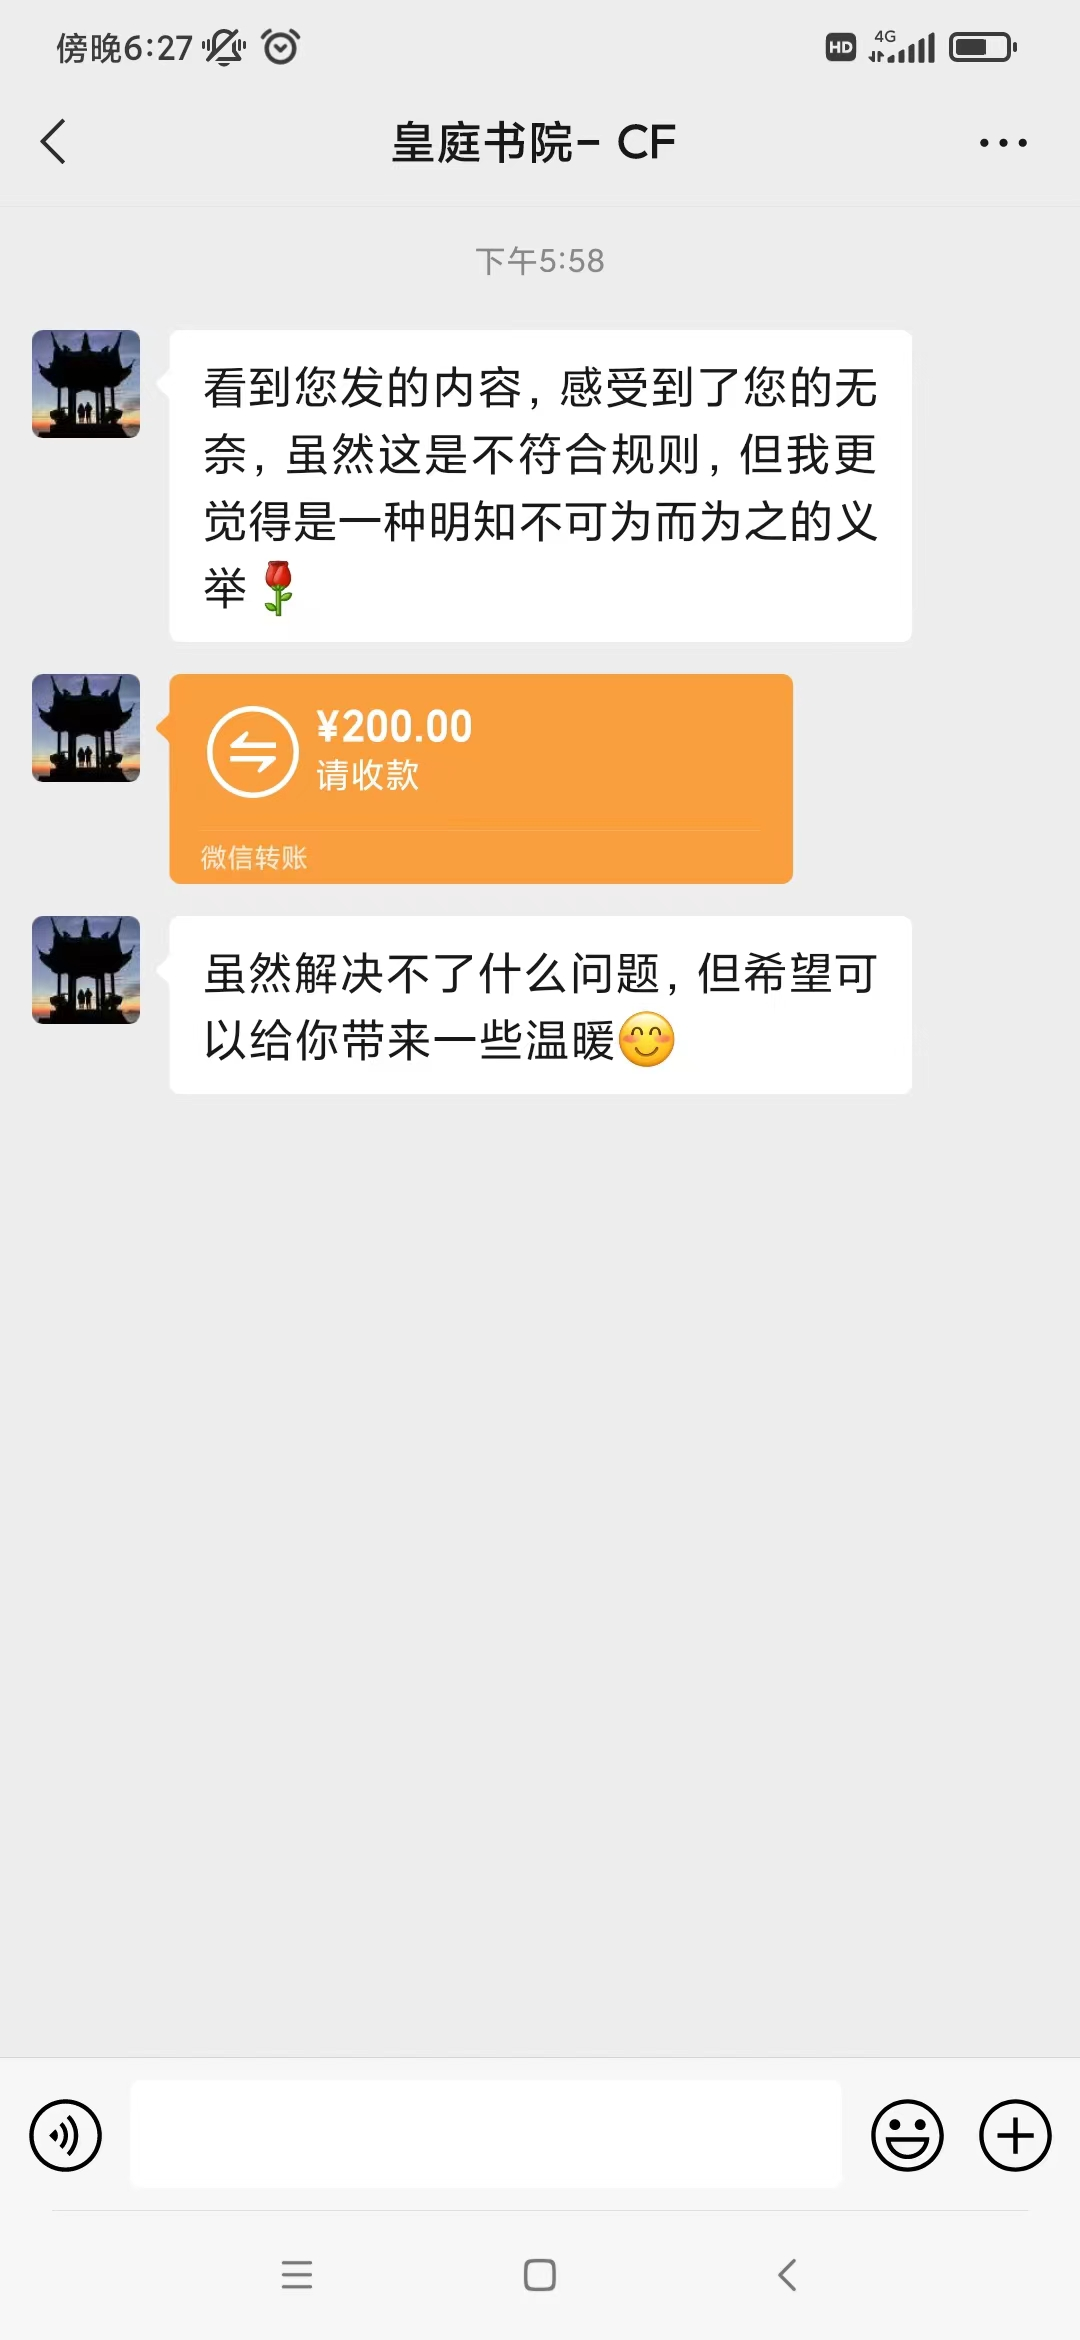
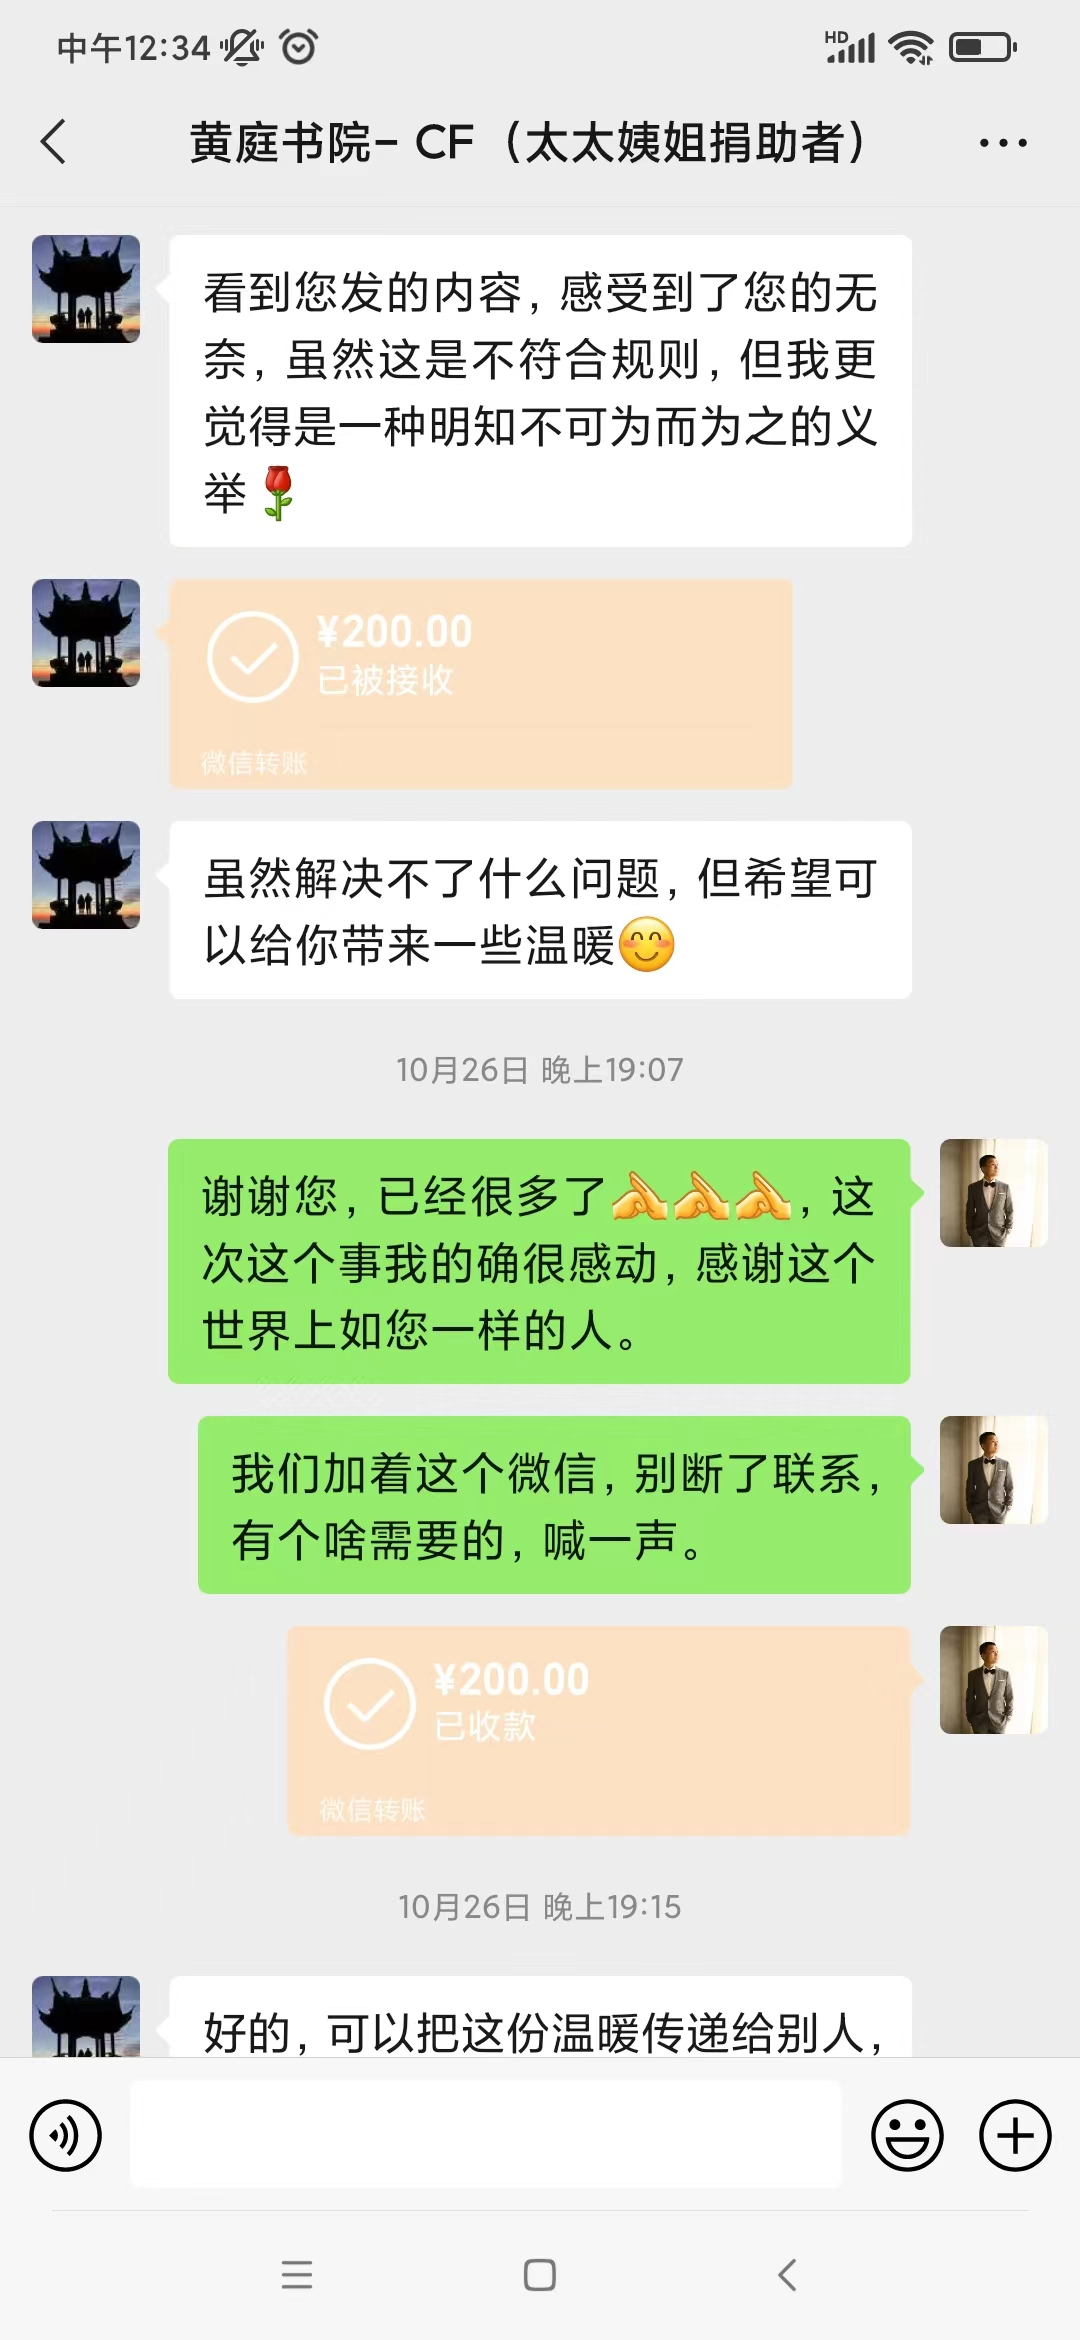
there is love in the world

diff --git a/content/posts/2023/10/there-is-love-in-the-world.md b/content/posts/2023/10/there-is-love-in-the-world.md
@@ -1,5 +1,5 @@
 ---
-title: 世間有大愛
+title: 人間有大愛
 author: olzhy
 type: post
 date: 2023-10-28T08:00:00+08:00
@@ -17,13 +17,13 @@ description: 為太太三姨家姨姐孩子籌款有感。
 
 我們兩人稍作商量後，便盡家裏所能拿出了五千元整，當即轉到太太姨姐的微信。
 
-但是，這麽大的事，光親戚朋友的支持是不夠的，重症病房一天的開銷就得成千上萬，我們的這點錢只是杯水車薪。我倆便盡量的轉發那條籌款的動態，獲取更多社會人士的幫助。
+但是，這麽大的事，光親戚朋友的支持是不夠的，重症病房一天的開銷就得成千上萬，我們的這點錢只是杯水車薪。我倆便盡量的轉發那條籌款的動態，嘗試獲取更多社會人士的幫助。
 
 讓人溫暖的是，轉發后的幾個小時裏，不管是微信群，還是朋友圈，許多天南海北、素昧平生的人都在不停的幫助與接力，看著那十元、二十元的愛心捐款慢慢地匯聚成了幾千元、幾萬元。我和太太真切地感受到了這個世界的大愛。
 
 世上還是好人多啊！
 
-下面僅附上幾個陌生朋友的捐贈截圖，以記憶在心。
+下面僅附上我當時發起捐款的截圖與幾個陌生朋友轉賬的截圖，以記憶在心。
 
 ![在微信群發起捐款截圖](https://olzhy.github.io/static/images/uploads/2023/10/there-is-love-in-the-world-1.jpg#center)
 
@@ -35,8 +35,8 @@ description: 為太太三姨家姨姐孩子籌款有感。
 
 ![來自福建的陌生群友的轉賬截圖](https://olzhy.github.io/static/images/uploads/2023/10/there-is-love-in-the-world-3.jpg#center)
 
-{{% center %}}（來自福建的陌生群友「CF」單獨加了我微信後轉來 200 元，我說以後有需要幫忙時您也跟我說，他説你不必記得我，只要以後把這種愛心傳遞下去就好了）{{% /center %}}
+{{% center %}}（來自福建的陌生群友「CF」單獨加了我微信後轉來 200 元，我說以後有需要幫忙時您也跟我說一聲，他説你不必記得我，只要以後把這份愛心傳遞下去就好了）{{% /center %}}
 
 但在籌款的過程中，也有很多愛心人士質疑水滴平臺的可靠性，提醒我們直接使用收款碼籌款，要不大量的善款會被水滴抽成，最後實際到賬不足三成。
 
-我也不禁感嘆，公家的籌款平臺（紅十字）不靠譜、社會性質的也沒那麽可靠，我們這麽大一個國家，怎麽就沒有一個完全公正可靠的平臺？真的不理解，動善款的人還存一點良心嗎？怎麽忍心貪得這種救命錢？一旦和慈善相關的組織出現信任危機，影響的不只是一個企業，透支的是全社會的大愛和善心，幾十年甚至上百年都難以讓社會重建信心。本應得到幫助的人而因人們對渠道的不信任而得不到幫助的話，是多麽的可惜與可嘆。這些破壞渠道公信力的人的罪惡是極其深重的！
+我也不禁感嘆，公家的籌款平臺（紅十字）不靠譜、社會性質的也沒那麽可靠，我們這麽大一個國家，怎麽就沒有一個完全公正可靠的平臺？真的不理解，對善款動心思的人還存一點良心嗎？怎麽忍心貪得這種救命錢？一旦和慈善相關的組織出現信任危機，影響的不只是一個企業，透支的是全社會的大愛和善心，幾十年甚至上百年都難以讓社會重建信心。本應得到幫助的人因人們對渠道的不信任而得不到幫助的話，是多麽的可惜與可嘆。這些破壞渠道公信力的人的罪惡是極其深重的！
